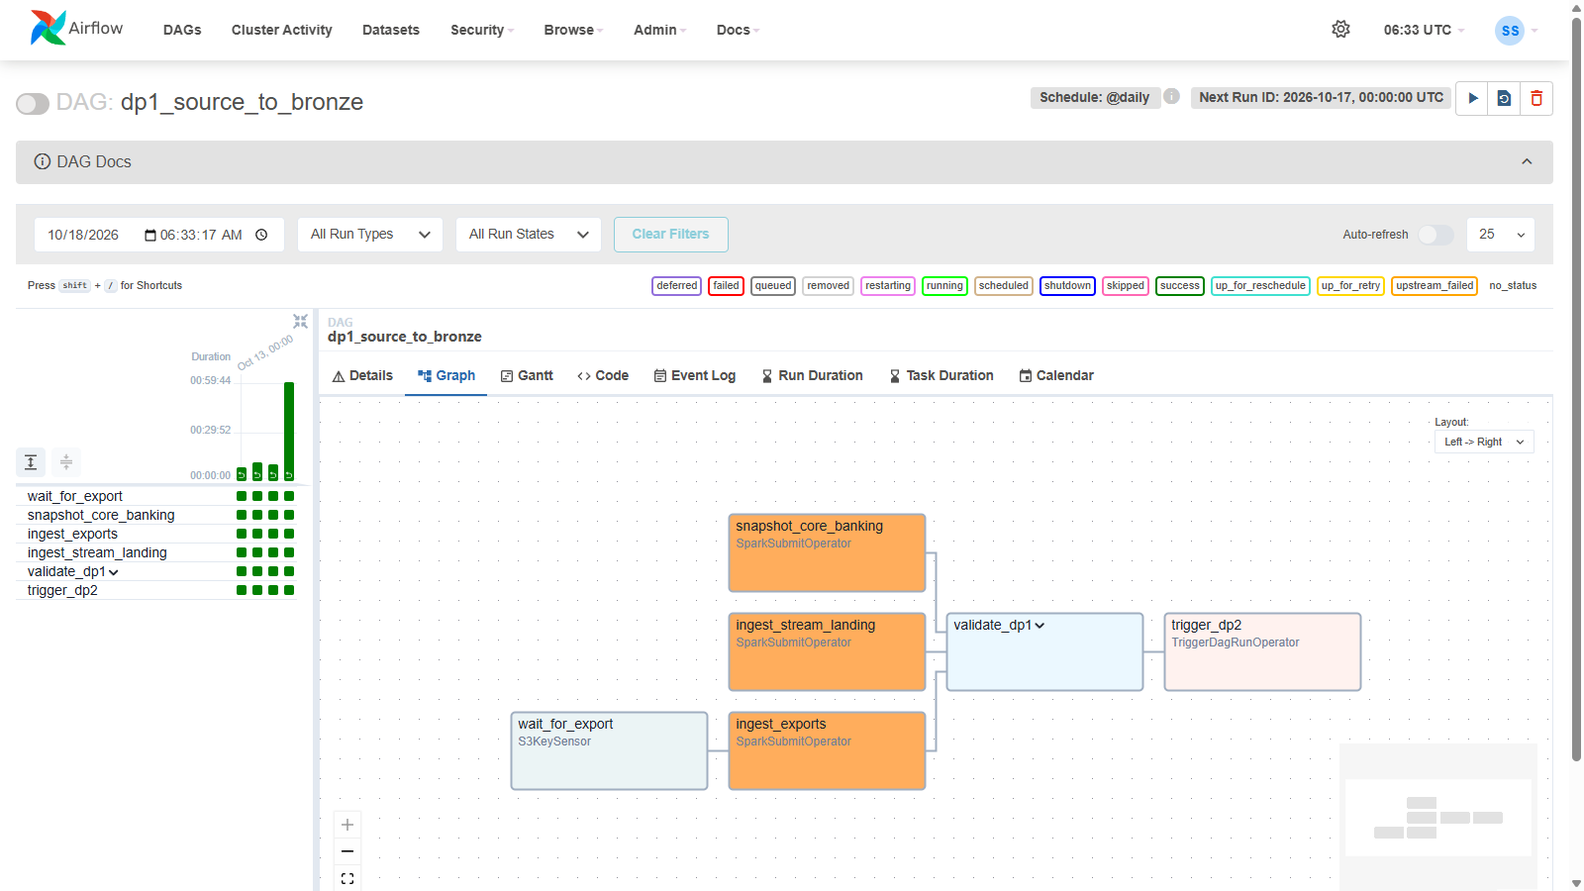
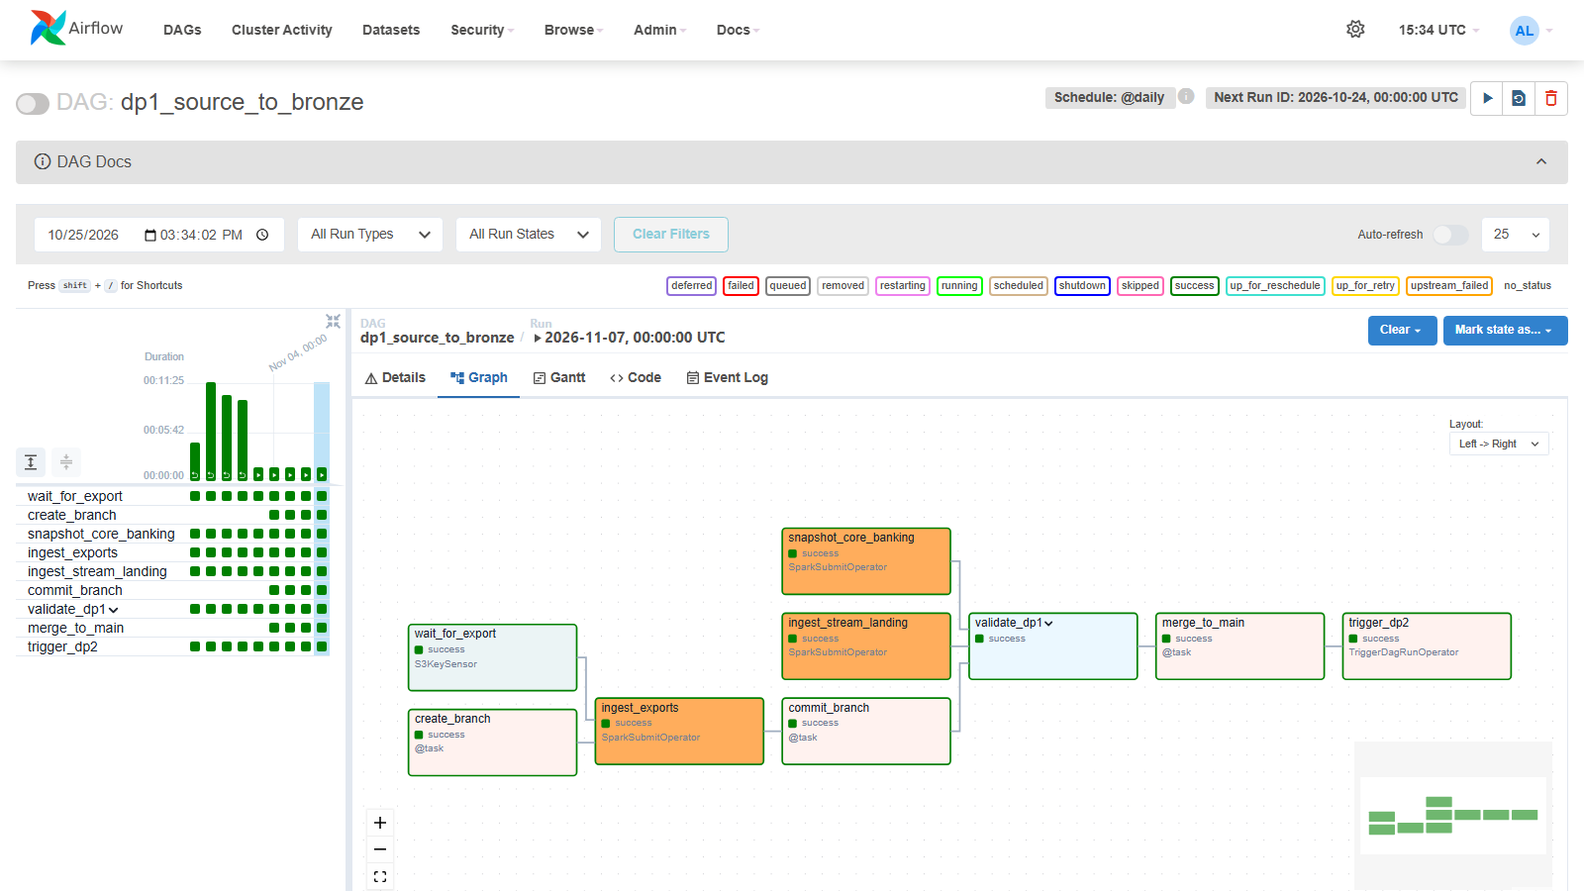
Add real proof images for scale and storage docs, fix lakeFS and DP2 lineage
- scale_100g.md, storage_optimization.md: 12 real screenshots from the
  Spark History Server event logs, the layout log and a re-run of
  serving_indexes.sql
- DP1: strip the dp1_YYYYMMDD/ branch prefix from OpenLineage dataset
  names and declare the lakeFS hop (export -> lakeFS -> hive table)
- DP2: declare build_silver inlets/outlets, since the Delta MERGE event
  drops its bronze source
- Retake airflow_dp1_graph and both DataHub lineage images; update
  airflow, datahub, openlineage, novel_lakefs_wap and spark_optimization

diff --git a/pipelines/airflow/dags/dp1_source_to_bronze.py b/pipelines/airflow/dags/dp1_source_to_bronze.py
@@ -28,11 +28,17 @@ from datetime import datetime
 from airflow import DAG
 from airflow.operators.trigger_dagrun import TriggerDagRunOperator
 from airflow.providers.amazon.aws.sensors.s3 import S3KeySensor
+from datahub_airflow_plugin.entities import Dataset
 
 from common import CORE_DB_ENV, DEFAULT_ARGS, commit_branch, create_branch, merge_to_main, spark_job, validate
 
 BRANCH = "dp1_{{ ds_nodash }}"
 TXN_ROOT = "s3a://bronze/" + BRANCH   # the run's lakeFS branch; readers use s3a://bronze/main
+# Lineage of the lakeFS hop, declared here: OpenLineage sees the Spark write but not the merge, which is an API call.
+# export -> ingest_exports -> raw_transactions in the lakeFS repository -> merge_to_main -> the metastore table.
+EXPORT = Dataset("s3", "core-banking-export/transactions")
+LAKEFS_TXN = Dataset("s3", "bronze/raw_transactions")   # spark-defaults drops dp1_<ds>/ from the Spark write's name too
+TABLE = Dataset("hive", "bronze.raw_transactions")
 
 with DAG("dp1_source_to_bronze", schedule="@daily", start_date=datetime(2026, 10, 1), catchup=False,
          max_active_runs=1, default_args=DEFAULT_ARGS, doc_md=__doc__, tags=["dp1", "bronze"]) as dag:
@@ -42,11 +48,13 @@ with DAG("dp1_source_to_bronze", schedule="@daily", start_date=datetime(2026, 10
     branch = create_branch(BRANCH)
     snapshot = spark_job("snapshot_core_banking", "ingest_bronze.py", ["--part", "core_banking"], env=CORE_DB_ENV)
     exports = spark_job("ingest_exports", "ingest_bronze.py",
-                        ["--part", "exports", "--until", "{{ macros.ds_add(ds, 1) }}", "--txn-root", TXN_ROOT])
+                        ["--part", "exports", "--until", "{{ macros.ds_add(ds, 1) }}", "--txn-root", TXN_ROOT],
+                        inlets=[EXPORT], outlets=[LAKEFS_TXN])
     landing = spark_job("ingest_stream_landing", "ingest_bronze.py", ["--part", "landing"])
     trigger = TriggerDagRunOperator(task_id="trigger_dp2", trigger_dag_id="dp2_bronze_to_gold",
                                     logical_date="{{ logical_date }}", reset_dag_run=True)
 
     [wait, branch] >> exports
     checks = validate("dp1", ["--txn-root", TXN_ROOT])   # reads the export on the run's branch
-    [snapshot, exports >> commit_branch(BRANCH), landing] >> checks >> merge_to_main(BRANCH) >> trigger
+    publish = merge_to_main.override(inlets=[LAKEFS_TXN], outlets=[TABLE])(BRANCH)
+    [snapshot, exports >> commit_branch(BRANCH), landing] >> checks >> publish >> trigger

diff --git a/pipelines/airflow/dags/dp2_bronze_to_gold.py b/pipelines/airflow/dags/dp2_bronze_to_gold.py
@@ -17,8 +17,15 @@ from datetime import datetime
 from airflow import DAG
 from airflow.operators.bash import BashOperator
 from airflow.operators.trigger_dagrun import TriggerDagRunOperator
+from datahub_airflow_plugin.entities import Dataset
 
 from common import DEFAULT_ARGS, S3_ENV, spark_job, validate
+
+# OpenLineage reports the MERGE into silver.stg_transactions with its target only, not the bronze source (OpenLineage
+# 1.53 on Delta 4; probed 2026-10-25: the same with a SQL MERGE, without cache, without source materialization).
+# build_silver declares the tables it reads and writes, so silver keeps its link to bronze in DataHub.
+SILVER_IN = [Dataset("hive", f"bronze.{t}") for t in ("raw_transactions", "raw_customers", "raw_ref_province_mapping")]
+SILVER_OUT = [Dataset("hive", f"silver.{t}") for t in ("stg_transactions", "stg_customers")]
 
 DBT = "/opt/venvs/dbt/bin/dbt"
 DBT_ARGS = "--project-dir {{ var.value.dbt_project_dir }} --profiles-dir {{ var.value.dbt_project_dir }} --target session"
@@ -37,7 +44,7 @@ DBT_ENV = {
 
 with DAG("dp2_bronze_to_gold", schedule=None, start_date=datetime(2026, 10, 1), catchup=False, max_active_runs=1,
          default_args=DEFAULT_ARGS, doc_md=__doc__, tags=["dp2", "silver", "gold", "dbt"]) as dag:
-    silver = spark_job("build_silver", "build_silver.py")
+    silver = spark_job("build_silver", "build_silver.py", inlets=SILVER_IN, outlets=SILVER_OUT)
     # pool `spark`: a dbt run is a Spark application like the others
     dbt_build = BashOperator(task_id="dbt_build", bash_command=f"{DBT} build {DBT_ARGS}", env=DBT_ENV, append_env=True,
                              pool="spark")

diff --git a/docs/scale_100g.md b/docs/scale_100g.md
@@ -52,6 +52,18 @@ Same problems as the 1 GB data, from the same functions: merchant skew (top 10 m
 (HCMC 60%), cross-border payments, old province names after 2025-07-01, 2% export duplicates, the auth columns from
 2024-07-01 (schema evolution).
 
+The 100 GB export is no longer in SeaweedFS, but the Spark History Server (profile `batch`, port 18080) keeps the
+event log of every run on it. Its list of those runs, filtered on `p9_scale`: the three skew runs
+of 2026-10-18 and 2026-10-19 (3.7 h, 3.6 h, 2.7 h) and the nine dedup runs of 2026-10-20:
+
+![Spark History Server, apps filtered on p9_scale: three p9_scale_skew runs of 3.7 h, 3.6 h and 2.7 h and nine p9_scale_dedup runs of 2.5 to 5.2 min](images/scale_history_runs.png)
+
+The broadcast run of the skew benchmark read the whole export. Its scan node in the History Server: 10,190 Parquet
+files, 101.7 GiB, 4,131,056,674 rows, 1,019 `export_date` partitions, then a `BroadcastHashJoin` with the 20,200
+merchants and no shuffle of the big side:
+
+![History Server, query 1 of p9_scale_skew on 2026-10-19, 48 min: Scan parquet 10,190 files, 101.7 GiB, 4,131,056,674 rows, 1,019 partitions, BroadcastHashJoin with 20,200 merchants](images/scale_skew_scan_100g.png)
+
 ## Skew join benchmark
 
 [`pipelines/spark/scale_100g.py`](https://github.com/cvinhnguyen/card-fraud-platform/blob/1416656ca28dbf52a0663508c5f0a81fb869faed/pipelines/spark/scale_100g.py)
@@ -101,6 +113,27 @@ and sets Spark's AQE defaults back
 
 With ~24% of 4.1B rows behind one key, the baseline cannot finish on this executor at all: one task must sort ~990M
 rows alone while 1,999 others finish in seconds. The 1 GB run only hinted at this.
+
+The baseline's reduce stage (stage 23 of the run of 2026-10-18) shows the skew: the median task read 2.1 MiB
+(389,471 records) in 7 s, the largest finished task 506.1 MiB (197,930,153 records) in 10 min:
+
+![History Server, stage 23 of the baseline: 42 min, spill 46.1 GiB; median task 7 s and 2.1 MiB / 389,471 records, max 10 min and 506.1 MiB / 197,930,153 records](images/scale_skew_baseline_stage.png)
+
+The History Server REST API gives the end of it: job 13 (`baseline-1`) ran from 20:33:11 to 22:19:29 and failed. One
+task, index 1263, ran 541 s and died with `java.lang.OutOfMemoryError: Java heap space`; the 94 other failed tasks
+were rejected by the executor while it shut down:
+
+![Git Bash: History Server API for job 13, baseline-1, FAILED after 20:33:11 to 22:19:29; failed tasks: 1 OutOfMemoryError Java heap space, 94 RejectedExecutionException; the OOM task index 1263, duration 541020 ms](images/scale_skew_baseline_oom.png)
+
+The second run, on 2026-10-18 from 23:01: salting finished in 2.5 h (job 5). The two failed jobs under it are the first
+AQE attempt and the broadcast after it ([Gotchas](#gotchas)):
+
+![History Server, second p9_scale_skew run: job 5 salting-1 2.5 h succeeded; failed jobs aqe-1 after 8.6 min (9 failed tasks) and broadcast-1](images/scale_skew_salting.png)
+
+The third run, on 2026-10-19 from 02:41: broadcast in 48 min (job 6), AQE in 59 + 54 min (jobs 8 and 9). The last AQE
+job has 218 tasks where 2,000 shuffle partitions were planned:
+
+![History Server, third p9_scale_skew run: broadcast-1 job 6 48 min; aqe-1 jobs 8 and 9, 59 min and 54 min, the second with 218 tasks](images/scale_skew_broadcast_aqe.png)
 
 Ranking at 100 GB: broadcast 48 min < AQE 113 min < salting 151 min < baseline (fails).
 
@@ -171,6 +204,12 @@ Setup as in the rest of P9: one 2 GB executor, 8 cores, Docker disk on the SSD; 
 | broadcast | global | 16 MB | **180 s** | **9.0 s** | 16.5 / 0.3 GB |
 | broadcast | batched, 2 dates | 16 MB | 201 s | 10.0 s | **0.4 / 0.0 GB** |
 | broadcast | batched, 5 dates | 16 MB | 200 s | 10.0 s | 16.1 / 0.3 GB |
+
+The first row in the History Server (run of 2026-10-20 09:30, query 1, 4.0 min): the scan reads 200 files, 2,042 MiB,
+81,072,211 rows; both sorts spill, 16.3 GiB before the shuffle and 15.6 GiB after it (31.9 GiB, the 34.3 GB of the
+table), and 79,482,558 rows come out of the window:
+
+![History Server, window dedup global with the default target, 4.0 min: Scan 200 files, 2042 MiB, 81,072,211 rows; Sort spill 16.3 GiB and 15.6 GiB; WindowGroupLimit 79,482,558 rows](images/scale_dedup_window_spill.png)
 
 The slice shows four things:
 

diff --git a/docs/storage_optimization.md b/docs/storage_optimization.md
@@ -78,6 +78,21 @@ all payments of the busiest card (fraud investigation); spend per unit in 2026-0
 | by month, `OPTIMIZE` | 1.95 s, 165 files, 475 MB | 0.40 s, 5 files, 14 MB | 1.94 s, 165 files, 475 MB |
 | by month, `OPTIMIZE ZORDER BY (card_id)` | **0.71 s, 34 files, 128 MB** | **0.36 s, 3 files, 12 MB** | 1.22 s, 100 files, 374 MB |
 
+Both tables come from the job's printed output of the run of 2026-10-17, saved as `layout.log` in the Spark work
+volume: the four writes and `OPTIMIZE` runs (12,800, 6,800, 165 and 100 files), then the 12 query lines:
+
+![Git Bash: layout.log of 2026-10-17 19:31, write by city 66 s 12,800 files, by month 40 s 6,800 files, OPTIMIZE 165 files, ZORDER 100 files, then 12 query lines down to ZORDER card lookup 0.71 s 34 files 127.9 MB](images/storage_layout_log.png)
+
+The same run in the Spark History Server, app `p5_storage_layout`. Before, the card lookup on the naive month layout
+(query 543, 15 s) reads 6,800 files, 554.8 MiB and all 7,879,773 rows of the 34 months to keep 107:
+
+![History Server, query 543: Scan parquet 6,800 files, 554.8 MiB, 7,879,773 rows, 34 partitions; Filter keeps 107 rows; 15 s](images/storage_card_lookup_naive.png)
+
+After `ZORDER BY (card_id)`, the same lookup (query 594, 0.7 s) reads 34 files, 127.9 MiB and 2,600,657 rows for the
+same 107:
+
+![History Server, query 594: Scan parquet 34 files, 127.9 MiB, 2,600,657 rows, 34 partitions; Filter keeps 107 rows; 0.7 s](images/storage_card_lookup_zorder.png)
+
 - The number of files costs more than the bytes. The naive month layout reads about as much (555 MB, against 475 MB
   after `OPTIMIZE`) but takes 7.6× longer, because opening 6,800 objects on S3 dominates. `OPTIMIZE` (bin-packing)
   turns them into 165 files and the scans drop from ~15 s to ~2 s.
@@ -137,6 +152,17 @@ DROP INDEX mart.btree_obt_ts;
 - BRIN stores only the min/max `txn_ts` of each block range. That works because the table is loaded in time order, so
   a 7-day range covers few block ranges. It is 24 kB where a B-tree on `txn_ts` is 29 MB. The 6,069 rows removed by
   recheck are the price of the coarse ranges. If rows were inserted in random order, BRIN would match every range.
+
+A re-run of the script on 2026-10-25 gives the same plans and the same buffer counts, with timings a few ms apart.
+The output went to a file, and `awk` prints the second (warm cache) plan of each query. Before the indexes: Parallel
+Seq Scan, 1,722 + 25,152 = 26,874 buffers and 71.7 ms for the card, 26,778 buffers and 72.3 ms for the 7-day spend:
+
+![Git Bash: serving_indexes.sql before the indexes, 1,392,065 rows 209 MB; card lookup Parallel Seq Scan, 1722 hit + 25152 read buffers, 71.683 ms; 7-day spend Parallel Seq Scan, 1818 + 24960 buffers, 72.347 ms](images/serving_explain_before.png)
+
+After: index sizes 54 MB, 29 MB and 24 kB; Index Scan on `ix_obt_card_ts` with 22 buffers and 0.051 ms; Bitmap Heap
+Scan through `brin_obt_ts` on 1,162 lossy blocks, 6,069 rows removed by recheck, 18.0 ms:
+
+![Git Bash: index sizes ix_obt_card_ts 54 MB, btree_obt_ts 29 MB, brin_obt_ts 24 kB; card lookup Index Scan 22 buffers 0.051 ms; 7-day spend Bitmap Heap Scan via brin_obt_ts, lossy 1162, 6069 removed by recheck, 18.002 ms](images/serving_explain_after.png)
 
 Trino has no indexes on Delta. On the lakehouse side the same idea is partition pruning and the min/max statistics
 that Z-order makes selective.

diff --git a/docs/openlineage.md b/docs/openlineage.md
@@ -63,9 +63,18 @@ SPARK_CONF = {
 }
 ```
 
-Apart from these settings, no Spark job or DAG declares lineage.
+Apart from these settings, no Spark job declares lineage. Two DAG tasks declare their tables with `inlets` /
+`outlets` (added 2026-10-25), where OpenLineage misses a hop:
 
-## Lineage of the whole pipeline, with no lineage code
+- DP1 writes the export on a lakeFS branch and publishes it with a merge, an API call OpenLineage cannot see; there,
+  `spark-defaults.conf` also drops the branch from the written dataset's name
+  ([novel_lakefs_wap.md](novel_lakefs_wap.md#how-it-is-wired)).
+- DP2's `build_silver`: OpenLineage reports its MERGE into `silver.stg_transactions` with the target only, without
+  `bronze.raw_transactions`. A probe on 2026-10-25 (OpenLineage 1.53, Delta 4) gave the same with a SQL MERGE,
+  without the cache and without source materialization, while a MERGE from `bronze.raw_ref_province_mapping` kept
+  its source. The task now declares the three bronze tables it reads and the two silver tables it writes.
+
+## Lineage of the whole pipeline, with no lineage code in the jobs
 
 After one run of DP1, DP2 and DP3, DataHub holds (counts from its GraphQL API; [datahub.md](datahub.md) has the
 screenshots):
@@ -82,14 +91,17 @@ Each Spark action becomes one DataHub job (`<dag>.<action>.<table>`, e.g.
 `dp2_bronze_to_gold.execute_merge_into_command.stg_transactions`), linked to the tables it read (`Consumes`) and
 wrote (`Produces`). The tables carry hive URNs (`bronze.raw_transactions`), the same names the GE assertions use, so
 lineage and validation land on the same entity. Postgres inputs keep their source identity
-(`core_banking.public.customers`). In DataHub, `bronze.raw_transactions` with the Spark action that produced it,
-`create_table.bronze_raw_transactions`, in the pipeline `dp1_source_to_bronze`:
+(`core_banking.public.customers`). In DataHub after the DP1 run of 2026-11-07, the export's way into bronze:
+`core-banking-export/transactions`, the Spark job and the Airflow task `ingest_exports`, the lakeFS repository's
+`bronze/raw_transactions` (one dataset for every branch, thanks to the path pattern above), then `merge_to_main` and
+`bronze.raw_transactions`:
 
-![DataHub: bronze.raw_transactions, produced by the Spark action create_table.bronze_raw_transactions in the pipeline dp1_source_to_bronze (named after the DAG)](images/datahub_lineage_bronze.png)
+![DataHub lineage of bronze/raw_transactions in the lakeFS repository (16 columns): core-banking-export/transactions, then ingest_exports and its Spark job, then the repository dataset, then the hovered task merge_to_main of dp1_source_to_bronze, then bronze.raw_transactions](images/datahub_lineage_bronze.png)
 
-`silver.stg_transactions` sits between DP2's MERGE job and the jobs that read it:
+`silver.stg_transactions` sits between its bronze inputs, linked through the task `build_silver` (declared, see
+above), and the jobs that read it:
 
-![DataHub: silver.stg_transactions between DP2's MERGE job and the jobs that read it](images/datahub_lineage_silver.png)
+![DataHub: silver.stg_transactions between bronze.raw_customers, bronze.raw_ref_province_mapping and bronze.raw_transactions (through build_silver and the MERGE job) and the jobs that read it](images/datahub_lineage_silver.png)
 
 ## Column-level lineage
 

diff --git a/docs/datahub.md b/docs/datahub.md
@@ -81,20 +81,28 @@ The lineage graph of the feature table shows its direct inputs, `gold.fact_trans
 
 ![Feature table lineage: built from gold.fact_transaction and bronze.raw_disputes](images/datahub_lineage_feat.png)
 
-`silver.stg_transactions` sits in the middle. Its lineage graph shows it produced by DP2's MERGE job and read by dbt
-(the fact and `dim_date`), the labels, and the PySpark comparison job:
+`silver.stg_transactions` sits in the middle. Its lineage graph after the DP2 run of 2026-11-07: upstream, the three
+bronze tables `build_silver` reads (`raw_customers`, `raw_ref_province_mapping`, `raw_transactions`) through the
+task, which declares them since OpenLineage reports DP2's MERGE without its source
+([openlineage.md](openlineage.md#how-it-is-wired)); downstream, dbt (the fact and `dim_date`), the labels and the PySpark
+comparison job:
 
-![silver.stg_transactions lineage: produced by DP2's MERGE job, read by dbt, the labels and the PySpark comparison job](images/datahub_lineage_silver.png)
+![silver.stg_transactions lineage: upstream bronze.raw_customers, bronze.raw_ref_province_mapping and bronze.raw_transactions through build_silver and the MERGE job; downstream dbt, gold.dim_date, gold.fact_transaction and gold_pyspark.fact_transaction](images/datahub_lineage_silver.png)
 
 ### Which pipeline produced a table
 
-Each table's upstream job carries the DAG's name: `bronze.raw_transactions` is produced by
-`create_table.bronze_raw_transactions` in the pipeline `dp1_source_to_bronze`. The OpenLineage job name is
-`spark.openlineage.appName`, which is the DAG id, set for every Spark task in
+Each table's upstream job carries the DAG's name. The OpenLineage job name is `spark.openlineage.appName`, which is
+the DAG id, set for every Spark task in
 [`pipelines/airflow/dags/common.py` L41-L49](https://github.com/cvinhnguyen/card-fraud-platform/blob/1416656ca28dbf52a0663508c5f0a81fb869faed/pipelines/airflow/dags/common.py#L41-L49).
-`bronze.raw_transactions` in DataHub, with the task of `dp1_source_to_bronze` that produced it:
 
-![bronze.raw_transactions: produced by a task of dp1_source_to_bronze](images/datahub_lineage_bronze.png)
+`bronze.raw_transactions` takes one more step. DP1 writes the export into the lakeFS repository on a branch and
+publishes it with a merge, an API call OpenLineage cannot see, so the DAG declares that hop
+([novel_lakefs_wap.md](novel_lakefs_wap.md#how-it-is-wired)). After the DP1 run of 2026-11-07, the repository's
+`bronze/raw_transactions` (S3) sits between the export and the table: `ingest_exports` and its Spark job write it from
+`core-banking-export/transactions`, and `merge_to_main` reads it and produces `bronze.raw_transactions`. The table
+also keeps its first producer, `create_table.bronze_raw_transactions`, the load that created it before lakeFS:
+
+![DataHub lineage of bronze/raw_transactions in the lakeFS repository (16 columns): core-banking-export/transactions, then ingest_exports and its Spark job, then the repository dataset, then the hovered task merge_to_main of dp1_source_to_bronze, then bronze.raw_transactions](images/datahub_lineage_bronze.png)
 
 The Airflow DAG itself is an entity next to it, with its documentation, tasks and runs from the Airflow listener. The
 pipeline `dp2_bronze_to_gold`, with its DAG doc:

diff --git a/docs/novel_lakefs_wap.md b/docs/novel_lakefs_wap.md
@@ -90,6 +90,12 @@ SeaweedFS as before.
 - [`pipelines/airflow/dags/dp1_source_to_bronze.py` L34-L52](https://github.com/cvinhnguyen/card-fraud-platform/blob/1416656ca28dbf52a0663508c5f0a81fb869faed/pipelines/airflow/dags/dp1_source_to_bronze.py#L34-L52): the run's branch
   `dp1_<ds>`, `ingest_exports` and `validate_dp1` with `--txn-root s3a://bronze/dp1_<ds>`, and the order of the tasks:
   ingest, commit, validate, merge, trigger DP2.
+- Lineage (added 2026-10-25). OpenLineage sees the Spark write on the branch but not the merge, which is an API call,
+  and it named the written dataset after the branch, a new one every run. `spark-defaults.conf` now drops `dp1_<ds>/`
+  from dataset names (`spark.openlineage.dataset.removePath.pattern`), and the DP1 DAG declares the hop for DataHub
+  with `inlets` / `outlets`, as `rag_ingest` does: `ingest_exports` reads `s3 core-banking-export/transactions` and
+  writes `s3 bronze/raw_transactions` (the repository), `merge_to_main` reads that and writes
+  `hive bronze.raw_transactions`, the table silver and Trino read.
 
 `ingest_bronze.py` refuses to append an export to `main` (`--txn-root` is required and must be a branch,
 [`pipelines/spark/ingest_bronze.py` L127-L129](https://github.com/cvinhnguyen/card-fraud-platform/blob/1416656ca28dbf52a0663508c5f0a81fb869faed/pipelines/spark/ingest_bronze.py#L127-L129)),
@@ -175,6 +181,15 @@ Trino reads `main` through the catalog `lakefs`: the export of 2026-11-06 is the
 
 DP2 for the day then built silver and gold from `main` like any other day; every task succeeded.
 
+### 5. The publish shows in DataHub (2026-10-25)
+
+Before the lineage fix, the DP1 run of 2026-11-06 left a dataset named after its branch,
+`bronze/dp1_20261106/raw_transactions`, with nothing after it, and `bronze.raw_transactions` still showed only the job
+that created it before lakeFS. The run of 2026-11-07, with the fix, writes the repository's `bronze/raw_transactions`
+and links it to the table through `merge_to_main`:
+
+![DataHub lineage of bronze/raw_transactions in the lakeFS repository (16 columns): core-banking-export/transactions, then ingest_exports and its Spark job, then the repository dataset, then the hovered task merge_to_main of dp1_source_to_bronze, then bronze.raw_transactions](images/datahub_lineage_bronze.png)
+
 ## How the result is judged
 
 What the runs show:
@@ -218,3 +233,6 @@ The same gate would stop any other failed check on the export (row count, nulls,
   restore them (`lakectl refs-dump` and `refs-restore`), which is not set up here.
 - Trino's `delta.bronze.raw_transactions` no longer works (that catalog cannot reach the bucket `bronze`); use
   `lakefs.bronze.raw_transactions`.
+- The path pattern renames datasets, not jobs: OpenLineage still names the Spark job of `ingest_exports` after the
+  branch it wrote, so DataHub gets one more Spark job entity per DP1 run. The lineage stays connected through the
+  dataset and the Airflow tasks.

diff --git a/docs/spark_optimization.md b/docs/spark_optimization.md
@@ -90,11 +90,11 @@ run that passed is merged into `main`, and DP2 starts after the merge
     [snapshot, exports >> commit_branch(BRANCH), landing] >> checks >> merge_to_main(BRANCH) >> trigger
 ```
 
-The runs with the lakeFS tasks are in [novel_lakefs_wap.md](novel_lakefs_wap.md). The graph below is from 2026-10-18,
-before those tasks existed: `wait_for_export` gates `ingest_exports`, and the three Spark tasks run before
-`validate_dp1` and `trigger_dp2`:
+The lakeFS tasks are explained in [novel_lakefs_wap.md](novel_lakefs_wap.md). The graph of the run of 2026-11-07:
+`wait_for_export` and `create_branch` gate `ingest_exports`, the three Spark tasks run before `validate_dp1`, and
+`merge_to_main` publishes before `trigger_dp2`:
 
-![Airflow graph of dp1_source_to_bronze on 2026-10-18: wait_for_export gates ingest_exports; snapshot_core_banking, ingest_stream_landing and ingest_exports run before validate_dp1 and trigger_dp2](images/airflow_dp1_graph.png)
+![Airflow graph of dp1_source_to_bronze, run of 2026-11-07: wait_for_export and create_branch gate ingest_exports; snapshot_core_banking, ingest_stream_landing and ingest_exports then commit_branch run before validate_dp1, merge_to_main and trigger_dp2, all success](images/airflow_dp1_graph.png)
 
 DP2 runs the dedup first, validates silver, then builds gold with dbt and the labels in parallel
 ([`pipelines/airflow/dags/dp2_bronze_to_gold.py` L38-L53](https://github.com/cvinhnguyen/card-fraud-platform/blob/1416656ca28dbf52a0663508c5f0a81fb869faed/pipelines/airflow/dags/dp2_bronze_to_gold.py#L38-L53)):

diff --git a/docs/airflow.md b/docs/airflow.md
@@ -243,11 +243,13 @@ The DAG list after the backfill, 4 DAGs and 0 failed runs:
 ![DAG list: 4 DAGs, 0 failed](images/airflow_dags.png)
 
 In DP1 the sensor gates `ingest_exports` only; the Postgres snapshot and the landing load do not wait for the
-export file. The three Spark tasks queue in the `spark` pool. The DP1 graph below, with 4 green runs, predates the
-lakeFS tasks; the current one, with `create_branch`, `commit_branch` and `merge_to_main`, is in
-[novel_lakefs_wap.md](novel_lakefs_wap.md#4-the-corrected-export-is-published):
+export file. The three Spark tasks queue in the `spark` pool. The DP1 graph of the run of 2026-11-07, every task
+green: `create_branch` and the sensor before `ingest_exports`, `commit_branch` after it, then `validate_dp1`,
+`merge_to_main` and `trigger_dp2` (Write-Audit-Publish on lakeFS,
+[novel_lakefs_wap.md](novel_lakefs_wap.md#4-the-corrected-export-is-published)); the grid on the left holds 10 green
+runs:
 
-![dp1_source_to_bronze graph, 4 green runs](images/airflow_dp1_graph.png)
+![dp1_source_to_bronze graph of the run of 2026-11-07: create_branch, wait_for_export, ingest_exports, commit_branch, snapshot_core_banking, ingest_stream_landing, validate_dp1, merge_to_main and trigger_dp2, all success; 10 green runs in the grid](images/airflow_dp1_graph.png)
 
 In DP2, silver is validated before dbt reads it, labels run next to dbt (they read silver, not gold), and the gold
 validation waits for both, as the DP2 graph shows:
